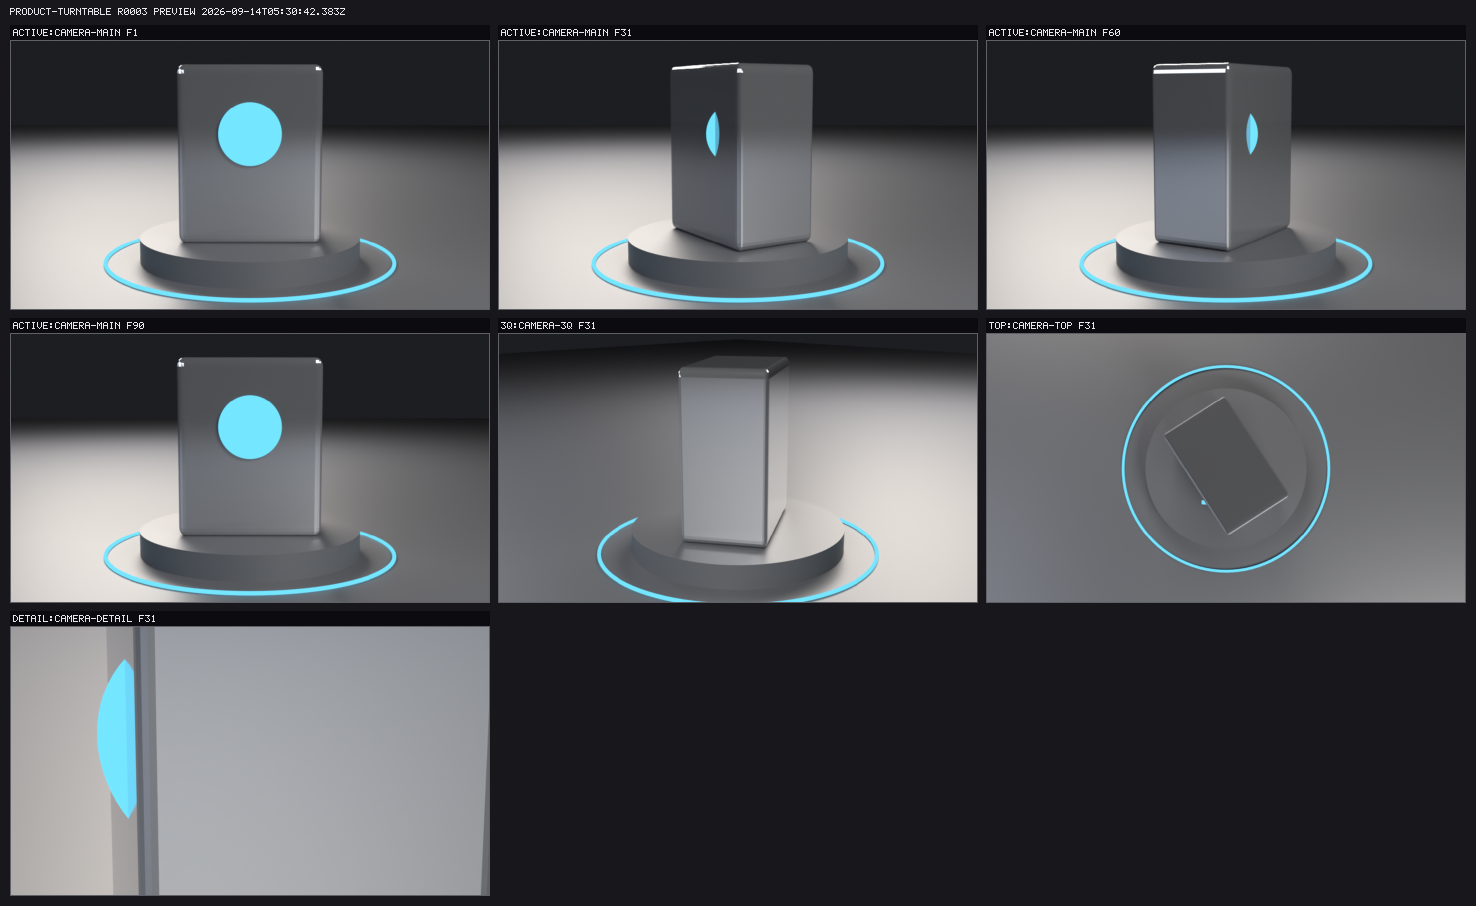
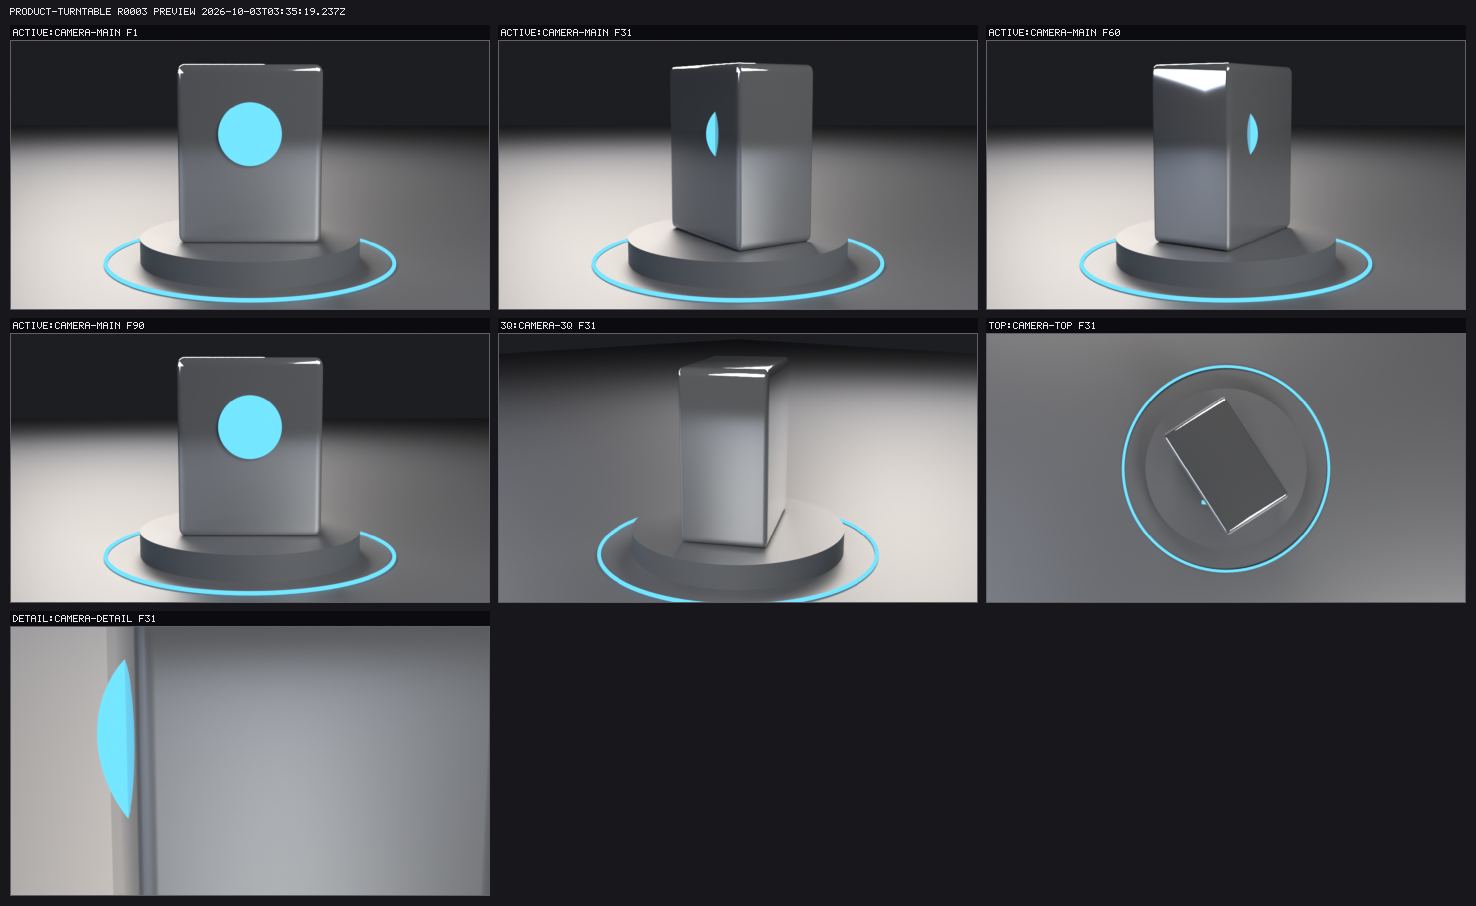
Capture actual revision comparisons and align contribution evidence

diff --git a/deepblend/docs/improvement-plan.md b/deepblend/docs/improvement-plan.md
@@ -632,5 +632,13 @@
 - 报告记录实际原始字节长度/摘要、SDK/Node 版本、声明及使用能力、实际 PNG 尺寸、默认值与有限参数变体的场景/值摘要和 notices。逐参数检查数字最小/最大值、颜色黑/白值，以及非法类型、越界和未知参数拒绝；不称为所有 RGB 值或组合的验收。
 - 包目录及成员符号链接被拒，读取有限；清单、许可及参数 JSON 最大 64 KiB。提交许可文本要求非空 UTF-8，报告明确版权、身份、许可真实性、Blender 构造、预览对应性和美术质量仍需另行验证。中英文入口与作者/配方/API 文档给出可执行命令、报告位置和真实渲染提交要求。
 - 公共 SDK 专项在仓库外实际打包安装后 4/4 通过，四个内置配方各产生 7 个正向变体与 7 个明确拒绝结果；18 份实际 CLI 报告含 6 份成功与 12 份拒绝，覆盖选定参数、重复运行、损坏预览、缺失/空白/非法 UTF-8 许可、超限/非法 JSON、非法文件类型、符号链接及错误调用。作者输入前后摘要相同。
-- 扩展测试首次在删除临时 LICENSE 目录时失败，已保留失败日志，修正清理方式后新运行通过。本轮完整契约 102/102 文件、1,917 项自计断言、976 个 node:test 用例，零失败/跳过；真实报告与外部目录中的实际文件再次核对，重复报告完全相同。当前阶段提交的 CI 单独核验。本轮未重跑完整 24 套验收。
+- 扩展测试首次在删除临时 LICENSE 目录时失败，已保留失败日志，修正清理方式后新运行通过。本轮完整契约 102/102 文件、1,917 项自计断言、976 个 node:test 用例，零失败/跳过；真实报告与外部目录中的实际文件再次核对，重复报告完全相同。阶段提交后，`0fe3cae` 的实际 CI 全部通过；随后在冻结源码上连续运行完整 24 套验收全部通过，含本轮作者工具与前轮布局。独立核对套件标签、日志和最终退出状态；源代码保持不变。三份故意误报的外部脚本副本均被预期行为断言拒绝。
 - 证据位于 `.deepblend/quality/recipe-author-r27/`。这是维护的外部安装示例，不是独立作者的真实投稿、外部用户复用或公开接口采用证明；整体路线保持未完成。
+
+### 第二十八轮：真实文档对比与投稿审阅入口
+
+- 真实截图重跑发现旧工具依赖中文“已提交”，英文界面已经保存新版本却报失败；保留日志和独立 store，修正为实际保存版本检查。
+- 核对源码发现旧流程在两次渲染前已完成材质修改，无法证明 README 的前后对比。改为先渲染 r0002，再修改材质并渲染 r0003，通过工作台实际版本选择展示两张已加载图片。截图清单绑定两份原始 SceneSpec 及实际展示图片的摘要、尺寸与长度；可显式保留 store 独立重开检查。
+- CI 指南补齐真实杯体构造与画廊/编辑流程及产物位置，明确契约与干净克隆属于同一 job；测试表和实际 workflow 入口双向校验。贡献指南明确容器示例仅验证契约层。PR 模板加入作者报告、实际构造/渲染、许可来源和版本审阅要求。
+- 实际原生截图流程通过，三张发布图片与最终捕获字节完全相同。独立检查两版场景仅改变粗糙度与发光强度，几何、相机、灯光、环境、渲染配置与动画保持一致；全部图片已查看。完整契约 102/102 文件、1,917 项自计断言、976 个 node:test 用例通过，零失败/跳过。私有检查器副本分别模拟漏写杯体 CI 行、同版本冒充前后对比，两者均以预期断言退出 1，没有存活反例。
+- 本轮仅改文档、截图工具与契约检查，产品源码保持 `0fe3cae` 的已验收实现；此前连续完整 24 套验收属于该提交，本轮不重复声称新提交完成完整 24 套。阶段 CI 以新提交回执为准。证据位于 `.deepblend/quality/docs-submission-r28/`。当前范围不替代真人投稿、独立复用、在线模型或最终美术验收。

diff --git a/deepblend/docs/architecture-decisions.md b/deepblend/docs/architecture-decisions.md
@@ -1,8 +1,37 @@
 # DeepBlend 架构决策记录
 
-> 记录范围：M0 的 D1–D10 见 `runtime-audit.md` §7；本文件记录 **M1 新增的 D11–D26**。
+> 记录范围：M0 的 D1–D10 见 `runtime-audit.md` §7；本文件记录后续实现与验收中的决策。
 > 原则：每条决策都由**运行时实测或真实缺陷**驱动，而不是由偏好驱动。
 > 强制的决策要写明「不这样做会发生什么」，因为被删掉的理由才是最难复原的信息。
+
+## D206 — 文档对比绑定真实版本与图片，CI 范围从 workflow 核对
+
+**触发事实**：截图工具先完成材质修改，再连续渲染同一版本，与 README 的修改前后
+说明不符。真实重跑又遇到中文成功文案断言：英文界面已保存新版本，工具却报失败。
+CI 指南也漏掉 workflow 中实际存在的杯体构造与浏览器编辑步骤。
+
+**决策**：在修改前渲染原版本，修改后渲染新版本，通过工作台的版本比较展示实际
+图片。提交成功按存储中新版本确认；等待两张图加载并核对所属版本及实际 PNG 尺寸。
+截图清单记录两份 SceneSpec 原始摘要和已展示图片的路径、尺寸、长度、摘要。
+维护者可显式保留独立 store 供重开检查。CI 指南的测试表与 workflow 实际入口双向
+核对，避免新增步骤只出现在实现里。
+
+**后果与范围**：继续按旧顺序渲染，只能证明同一场景重复输出；只按界面文字判断
+成功会随语言变化误报。摘要与真实版本能绑定证据，仍需人工查看截图与实际作品。
+文档与 CI 的静态一致性不能替代该提交的实际 runner 结果。
+
+## D205 — 作者目录报告通过安装后的公共 SDK 验证有限数据范围
+
+**触发事实**：公共 SDK 已能验证配方，维护者同步工具却针对仓库内镜像，独立作者
+缺少对自己目录直接生成审阅报告的入口。
+
+**决策**：独立示例只读固定成员，通过公共包入口验证真实字节与有限参数范围；
+报告列出实际摘要、版本、变体与明确拒绝，并记录未验证的构造、画面、权利和美术
+范围。许可文本存在是提交数据要求，权利与声明真实性仍由实际审阅证明。
+
+**验证与后果**：实际打包安装到仓库外运行，原输入前后摘要不变。故意输出错误文件
+摘要、忽略所选参数或跳过许可文本检查的三个副本，均被预期行为断言抓住。
+如果用报告的通过代替作品或外部作者复用验收，会把不同范围的证据混在一起。
 
 ## D204 — 杯体各曲面统一使用解析法线
 

diff --git a/CONTRIBUTING.md b/CONTRIBUTING.md
@@ -92,12 +92,16 @@ node deepblend/tests/e2e/ui-live.e2e.mjs       # 真实会话里的工具卡
 新增一句 `import '@deepseek-ai/dsh-xxx'` 之后**不需要改任何脚本**：链接清单是从源码里
 读出来的（`deepblend/tools/workspace-layout.mjs`），重跑 `npm run setup` 即可。
 
-### 改了 `.github/workflows/ci.yml`：**在容器里跑一遍**
+### 改了 `.github/workflows/ci.yml`：验证实际运行范围
 
-CI 是本仓库唯一一个**没有一个套件运行它**的产物，而它跑在 `ubuntu-latest` + Node 22 上，
-和你本机通常不是一个环境。D96 就是这么来的：把 CI 的每一步照抄进一个 Linux 容器之后，
-两个此前从未被执行的产物同时坏了（一个把「本机没装」报成「漂移」，一个缺 Python 就崩）。
-照抄它，比读它有用：
+契约检查可以核对 workflow 的路径、固定依赖、权限和文档，但不能证明 runner 能执行它。
+当前契约 job 与 Linux 渲染/浏览器 job 都运行在 Ubuntu 24.04；契约与干净克隆在同一个
+job，另一 job 验证真实 Blender、Agent 和浏览器。实际范围与下载证据见
+[CI 指南](deepblend/docs/ci.md)。修改后核对该提交的实际 Actions 结果及产物。
+
+下面的 Linux 容器示例复现契约层的前置条件与测试。它没有运行 Blender、Chrome、
+Mesa 或干净克隆步骤，不能替代整个 workflow 的验收。D96 曾通过实际容器执行发现
+未安装环境被误报成漂移和缺 Python 的问题：
 
 ```bash
 WORK=$(mktemp -d); git clone --quiet . "$WORK"
@@ -115,7 +119,7 @@ docker run --rm -v "$WORK":/src -w /src node:22-bookworm-slim bash -lc '
 `python3` 与 `git` 是**手动装上的**：runner 镜像里有，`-slim` 里没有，而 README 的前置表
 说了缺了它们分别会怎样。`contract/ci-workflow.test.mjs` 会盯住「每一步点到的路径存在」
 「pin 与 `dsh-baseline.json` 一致」「不跑的层被点名」「没有任何套件同时落在 CI 与 not-run
-之外」，但它**没法**知道 GitHub 的镜像今天有没有 Python——那件事只能这样跑一次。
+之外」，但它**没法**知道 GitHub 的镜像今天有没有 Python——实际执行与下载证据仍需核对。
 
 ### 动了这些东西，契约层会告诉你哪里还没跟上
 

diff --git a/deepblend/docs/milestone-status.md b/deepblend/docs/milestone-status.md
@@ -14971,6 +14971,25 @@ sessionActions: [get_capabilities, compile_scene]
    如果哪天有人给它们加上取消 ✓，那条边界会**悄悄**变错 ✓。
 4. **面板的「好看」仍然只有人看** ✓（§214.8 第 4 条 ✓）。
 
+## 232. 产品质量路线：作者报告与真实文档证据
+
+### 232.1 作者报告的错误正负对照
+
+独立安装的公共 SDK 示例接受作者自己的配方目录，报告实际原始字节、有限参数变体和明确拒绝范围。三份外部脚本副本分别伪造文件摘要、忽略选定参数、跳过非空许可守卫；预期行为断言分别在实际文件摘要、所选值、许可拒绝结果上失败。三份错误副本均被捕获，没有存活反例；原始作者输入与跟踪源码保持不变。它证明维护的消费者检查有效，不能证明独立作者采用或内容版权。
+
+阶段提交 `0fe3cae` 的实际 PR CI 成功，随后在冻结源码上连续完整验收通过；具体运行环境、套件与证据见 [改进路线第二十七轮](improvement-plan.md)。
+
+### 232.2 README 前后图与实际 CI 入口
+
+旧截图工具先修改材质再执行两次渲染，无法证明前后对比；真实重跑还因英文提交文案误报失败。新版先渲染保存的 r0002，再修改两项材质参数并渲染 r0003，核对工作台实际加载的两张图片。原始场景、图片摘要及尺寸写入清单，三张发布图片保持最终捕获的原字节；保留 store 可独立复查。
+
+私有检查器副本的两个错误正负对照均退出 1：
+
+- 从 CI 指南输入移除杯体构造行，被“指南与实际 workflow 入口完全相等”断言捕获。
+- 令前后图片记录同一版本，被“同版本两次渲染不能证明材质修改”断言捕获。
+
+没有存活反例，跟踪文件未用于注入错误。当前完整契约及实际截图流程通过；对应日志、源码副本、原始 store 和独立摘要审计保留在 `.deepblend/quality/docs-submission-r28/`。新提交 CI 单独核验，历史完整验收不作为新提交的运行回执。真人审美、外部投稿、在线模型和发布范围仍待完成。
+
 ### 215.7 发布链
 
 ```

diff --git a/.github/PULL_REQUEST_TEMPLATE.md b/.github/PULL_REQUEST_TEMPLATE.md
@@ -14,12 +14,25 @@ something a previous round paid for. `CONTRIBUTING.md` §3 has the reasoning beh
 
 ## What I ran
 
-- [ ] `node deepblend/tests/run.mjs` — the contract layer. Fast, no Blender, and it is the one CI runs.
+- [ ] `node deepblend/tests/run.mjs` — the complete contract layer, including the packed public SDK author example. CI runs it and the clean-clone installation; its Linux job also runs selected real Blender/Agent/browser flows. See [CI scope](../deepblend/docs/ci.md).
 - [ ] `bash deepblend/tests/run-all.sh` — the acceptance suite. Required if you touched the runtime,
       rendering, the UI plane, or anything a Blender process executes.
 - [ ] `npm run setup:check` — after adding an `import` of a DSH package.
 - [ ] `npm run plugin:check` — after touching `packages/deepblend/bundle/`.
 - [ ] `npm run presets:check` — after touching `deepblend/presets/`.
+
+## Recipe or content submissions
+
+<!-- Complete this section for a recipe; otherwise remove it. Follow deepblend/docs/recipes.md. -->
+
+- Recipe ID/version and intended result:
+- Four package files: `recipe.json`, `scene-spec.json`, `preview.png`, `LICENSE`.
+- Author validation report from the [standalone example](../deepblend/examples/content-author/README.md), including defaults and any chosen parameter combination; state which render/geometry/rights/artistic checks remain unverified.
+- Actual Blender version/build, input hashes, camera/frame, engine, samples, render size, time and measured cost. Attach default render and relevant detail/clay views; include selected-value renders when making claims about those values.
+- Source and license review: explain what you authored, what you reused and the basis for redistribution. License text presence does not establish rights.
+- Changes to published content use a new version; raw content hashes, real preview and Host mirror are updated together. Validate with `npm run recipes:check` when changing built-in packages.
+
+Data validation, actual construction/rendering and artistic review need separate evidence. Maintained fixtures do not establish independent author adoption or user reuse.
 
 ## Checklist
 

diff --git a/README.md b/README.md
@@ -64,9 +64,9 @@ Workbench — project header, current revision, and the scene tree the host comp
 ![Blender workbench: project name, current revision r0003, six view tabs, and six scene cards for entities, materials, lights, cameras, shots and animation tracks](deepblend/docs/images/workbench-scene.png)
 
 Preview comparison — one preview renders seven views into a contact sheet; change a material,
-render again, and the two sheets sit side by side with their own digests and render times:
+render again, and the two sheets sit side by side as actual r0002/r0003 revision images with their own digests and render times. The capture manifest records both source-scene and displayed-image hashes:
 
-![Preview comparison: two contact sheets side by side, the left labelled previous render and the right current render, each with its own digest and timestamp](deepblend/docs/images/preview-compare.png)
+![Preview comparison: two contact sheets side by side, r0002 before the material edit on the left and r0003 after it on the right, each with its own digest and timestamp](deepblend/docs/images/preview-compare.png)
 
 The render itself — seven views (the active camera sampled at four animation frames, plus
 three-quarter, top and detail) composited into one sheet:
